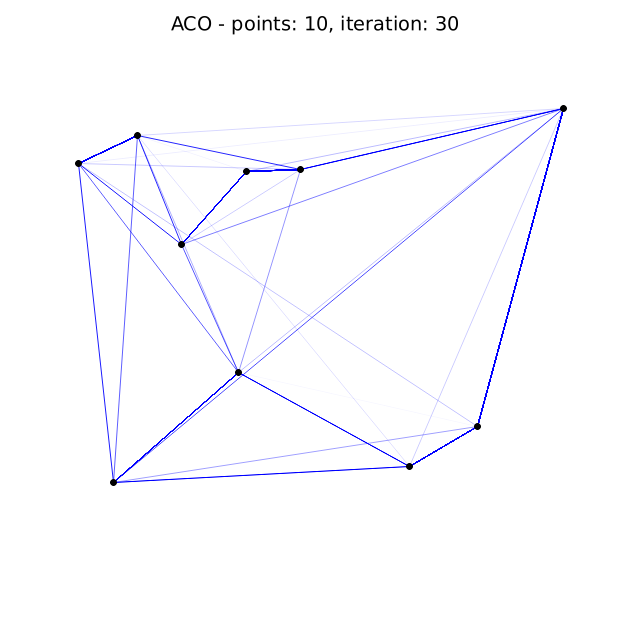
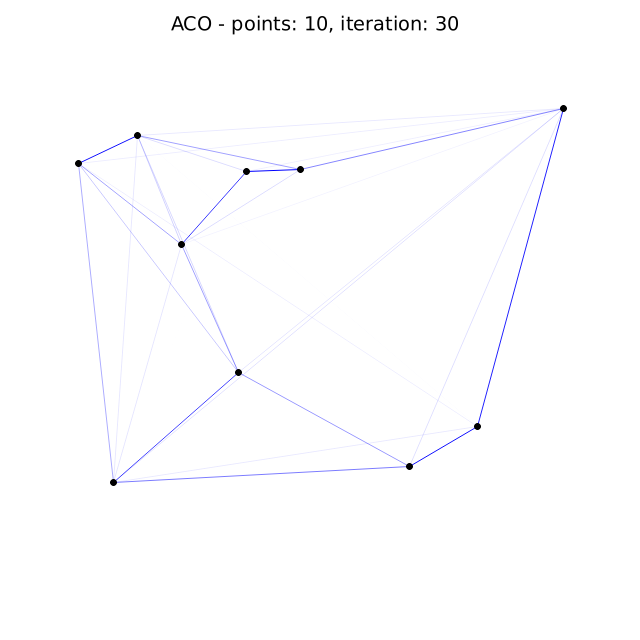
Create animated png from trails_matrix snapshots
Not yet generic to any n of coords, itartions, etc.

diff --git a/src/main.rs b/src/main.rs
@@ -2,6 +2,7 @@ mod ants;
 mod brute_force;
 mod plot;
 mod plot_trails;
+mod apng;
 
 use ants::ant_force;
 use rand::prelude::*;
@@ -39,23 +40,15 @@ fn main() {
     println!("Best route: {:?}", best_route);
     println!("Length = {:?}", best_route_length);
 
+    println!("\nEncoding {} PNG files:", trails_record.len());
+
     trails_record = normalize_trails_record(trails_record.clone());
 
-    plot_trails_record(coords, trails_record.clone());
+    plot_trails_record(coords, trails_record.clone(), best_route.clone());
 
-    // println!("{:?}", trails_record);
+    println!("success");
 
-    // plot_trails::plot_trails(coords.clone(), "test of 10.0 line weight", "test.png").unwrap();
-
-    // for t in trails_record {
-    //     println!();
-
-    //     let (u, _) = t;
-
-    //     for w in u {
-    //         println!("{:?}", w);
-    //     }
-    // }
+    apng::create_apng();
 }
 
 pub fn create_points(n: usize) -> Vec<(f32, f32)> {
@@ -103,13 +96,17 @@ fn normalize_trails_record(mut record: Vec<(Vec<Vec<f32>>, usize)>) -> Vec<(Vec<
     record
 }
 
-fn plot_trails_record(coords: Vec<(f32, f32)>, record: Vec<(Vec<Vec<f32>>, usize)>) {
+fn plot_trails_record(coords: Vec<(f32, f32)>, record: Vec<(Vec<Vec<f32>>, usize)>, mut best_route: Vec<usize>) {
     for i in 0..record.len() {
         let (matrix, iter) = record[i].clone();
         let file_path: &str = &(format!("images/series_1/ants_{}_{}.png", coords.len(), i));
         let title: &str = &(format!("ACO - points: {}, iteration: {}", coords.len(), iter));
 
-        plot_trails::plot_trails(coords.clone(), title, file_path, matrix).unwrap();
+        if i < record.len() - 1 {
+            plot_trails::plot_trails(coords.clone(), title, file_path, matrix.clone(), vec![]).unwrap();
+        } else {
+            plot_trails::plot_trails(coords.clone(), title, file_path, matrix, best_route.clone()).unwrap();
+        }
     }
 
 }

diff --git a/src/apng.rs b/src/apng.rs
@@ -1,0 +1,52 @@
+use apng::{load_dynamic_image, Encoder, Frame, PNGImage};
+
+use std::fs::File;
+use std::io::{BufWriter, Read};
+use std::path::Path;
+
+pub fn create_apng() {
+    let n: usize = 10;
+    let mut files: Vec<String> = vec![];
+
+    for i in 0..10 {
+        let file_path: String = format!("images/series_1/ants_{}_{}.png", n, i);
+        files.push(file_path);
+    }
+
+    let mut png_images: Vec<PNGImage> = Vec::new();
+
+    for f in files.iter() {
+        let mut file = File::open(f).unwrap();
+        let mut buffer = vec![];
+        file.read_to_end(&mut buffer).unwrap();
+        let img = image::load_from_memory(&buffer).unwrap();
+        png_images.push(load_dynamic_image(img).unwrap());
+    }
+
+    let path = Path::new(r"images/apng/animation_1.png");
+    let mut out = BufWriter::new(File::create(path).unwrap());
+
+    let config = apng::create_config(&png_images, None).unwrap();
+    let mut encoder = Encoder::new(&mut out, config).unwrap();
+
+    println!("\nEncoding animation from {} PNG files:", n);
+
+    let mut i = 0;
+    for image in png_images.iter() {
+        i += 1;
+        let mut t = 1;
+        if i == 10 { t = 5; }
+
+        let frame = Frame {
+            delay_num: Some(t),
+            delay_den: Some(2),
+            ..Default::default()
+        };
+        encoder.write_frame(image, frame).unwrap();
+    }
+
+    match encoder.finish_encode() {
+        Ok(_n) => println!("success"),
+        Err(err) => eprintln!("{}", err),
+    }
+}

diff --git a/src/plot_trails.rs b/src/plot_trails.rs
@@ -6,6 +6,7 @@ pub fn plot_trails(
     title: &str,
     file_path: &str,
     matrix: Vec<Vec<f32>>,
+    best_route: Vec<usize>,
 ) -> Result<(), Box<dyn std::error::Error>> {
     let file_path: &str = &(format!("{}", file_path));
     let root = BitMapBackend::new(file_path, (640, 640)).into_drawing_area();
@@ -26,13 +27,26 @@ pub fn plot_trails(
             line_coords.push(coords[i]);
             line_coords.push(coords[j]);
 
-            let mut weight: f64 = 10.0;
-            if matrix[i][j] < 0.7 {
-                weight = matrix[i][j] as f64 * 3.0;
-            }
+            let mut weight: f64 = matrix[i][j] as f64;
+            // if matrix[i][j] < 0.75 {
+            //     weight = matrix[i][j] as f64 * 3.0;
+            // }
 
             chart.draw_series(LineSeries::new(line_coords, &BLUE.mix(weight)))?;
         }
+    }
+
+    if best_route != [] {
+        // Draw line series
+        let mut best_route_coords: Vec<(f32, f32)> = vec![];
+        for i in 0..best_route.len() {
+            best_route_coords.push(coords[best_route[i]]);
+        }
+
+        best_route_coords.push(coords[best_route[0]]);
+
+        // mix == weight, 10.0 max, 0.3 min viable weight
+        chart.draw_series(LineSeries::new(best_route_coords, &GREEN.mix(10.0)))?;
     }
 
     // Draw point series
